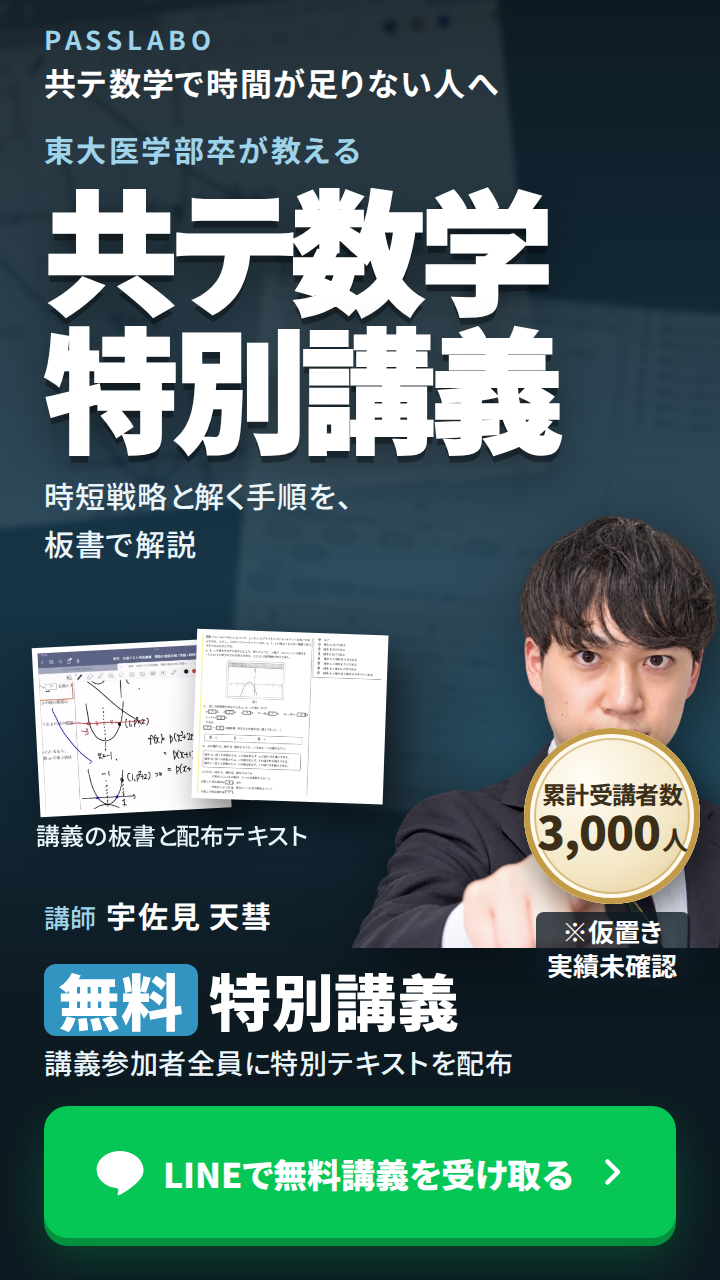
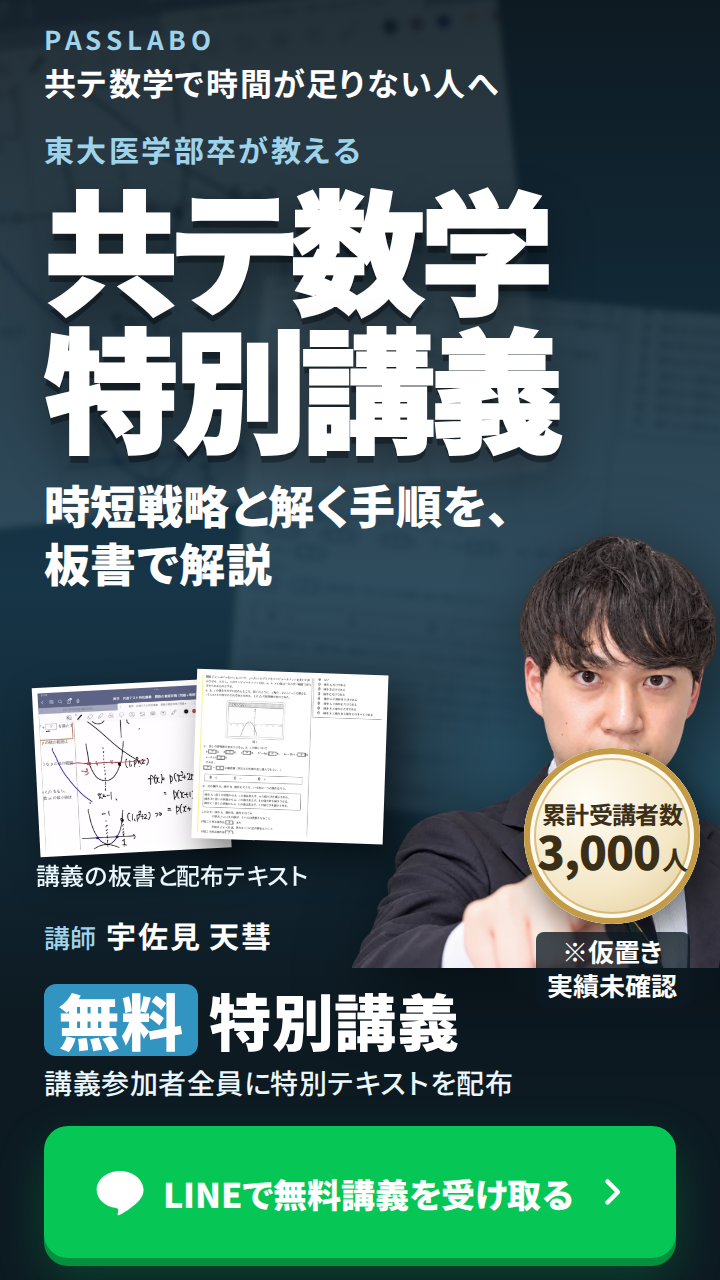
passlabo-fv-variants: A4 with-person: enlarge benefit line (font size/weight only, copy unchanged)
Claude-Session: https://claude.ai/code/session_01Jm6YN5J6YHJuwEcwhF251t

Changed region(s): [[0.0306, 0.375, 1.0, 1.0]]

diff --git a/passlabo-fv-variants/out/passlabo-fv-a4p.html b/passlabo-fv-variants/out/passlabo-fv-a4p.html
@@ -137,13 +137,13 @@ body[data-variant^="a4"] .cta:active{background:var(--line-d);box-shadow:none;tr
 body[data-variant^="a4"] .cta:focus-visible{outline:3px solid #fff;outline-offset:3px}
 body[data-variant^="a4"] .review{background:#f4f7f9}
 /* 人物あり: タイトルの下に頭を置き、顔とタイトルを重ねない。教材は左で腕の手前 */
-.f-with .f-hero{height:410px}
+.f-with .f-hero{height:420px}
 .f-with .f-title{font-size:74px}
-.f-with .f-sub .nb{display:block}
+.f-with .f-sub{margin-top:12px;font-size:26px;font-weight:900;line-height:1.28;color:#fff;letter-spacing:.01em}.f-with .f-sub .nb{display:block}
 .f-person{position:absolute;z-index:1;right:-66px;bottom:0;height:240px;margin:0;aspect-ratio:1330/1183}
 .f-person::before{content:"";position:absolute;inset:18% 4% -10% 8%;background:radial-gradient(closest-side,rgba(50,148,193,.45),rgba(50,148,193,0));z-index:-1}
 .f-person img{width:100%;height:100%;object-fit:contain;filter:drop-shadow(6px 10px 18px rgba(0,0,0,.55))}
-.f-with .f-mats{left:18px;top:252px;width:196px;height:112px}
+.f-with .f-mats{left:18px;top:272px;width:196px;height:112px}
 .f-with .f-board{left:0;top:6px;width:104px;height:92px;transform:rotate(-3deg)}
 .f-with .f-sheet{left:86px;top:0;width:104px;height:92px;transform:rotate(2deg)}
 .f-with .f-mats figcaption{top:102px}
@@ -164,6 +164,7 @@ body[data-variant^="a4"] .review{background:#f4f7f9}
 @media (max-width:389px){
 .f-with .f-title{font-size:67px}.f-without .f-title{font-size:78px}
 .f-person{height:226px;right:-70px}
+.f-with .f-sub{font-size:23px}
 .f-with .f-mats{transform:scale(.92);transform-origin:0 0}
 .f-without .f-mats{transform:scale(.9);transform-origin:0 0}
 .f-main{font-size:31px}.f-gift{font-size:14px}
@@ -179,6 +180,7 @@ body[data-variant^="a4"] .cta{font-size:17px;padding:0 12px;gap:8px;letter-spaci
 .f-cred{font-size:22px;margin-top:22px}
 .f-with .f-title,.f-without .f-title{font-size:120px}.f-title span{display:inline-block;margin-right:.12em}
 .f-sub .nb,.f-with .f-sub .nb{display:inline}.f-sub{font-size:22px;margin-top:16px}
+.f-with .f-sub{font-size:22px;font-weight:500;line-height:1.6;color:var(--f-pale);margin-top:16px;letter-spacing:.03em}
 .f-person{right:24px;height:430px}
 .f-with .f-mats,.f-without .f-mats{left:24px;top:300px;width:420px;height:140px}
 .f-with .f-board,.f-without .f-board{width:190px;height:120px}.f-with .f-sheet,.f-without .f-sheet{left:170px;width:190px;height:120px}
